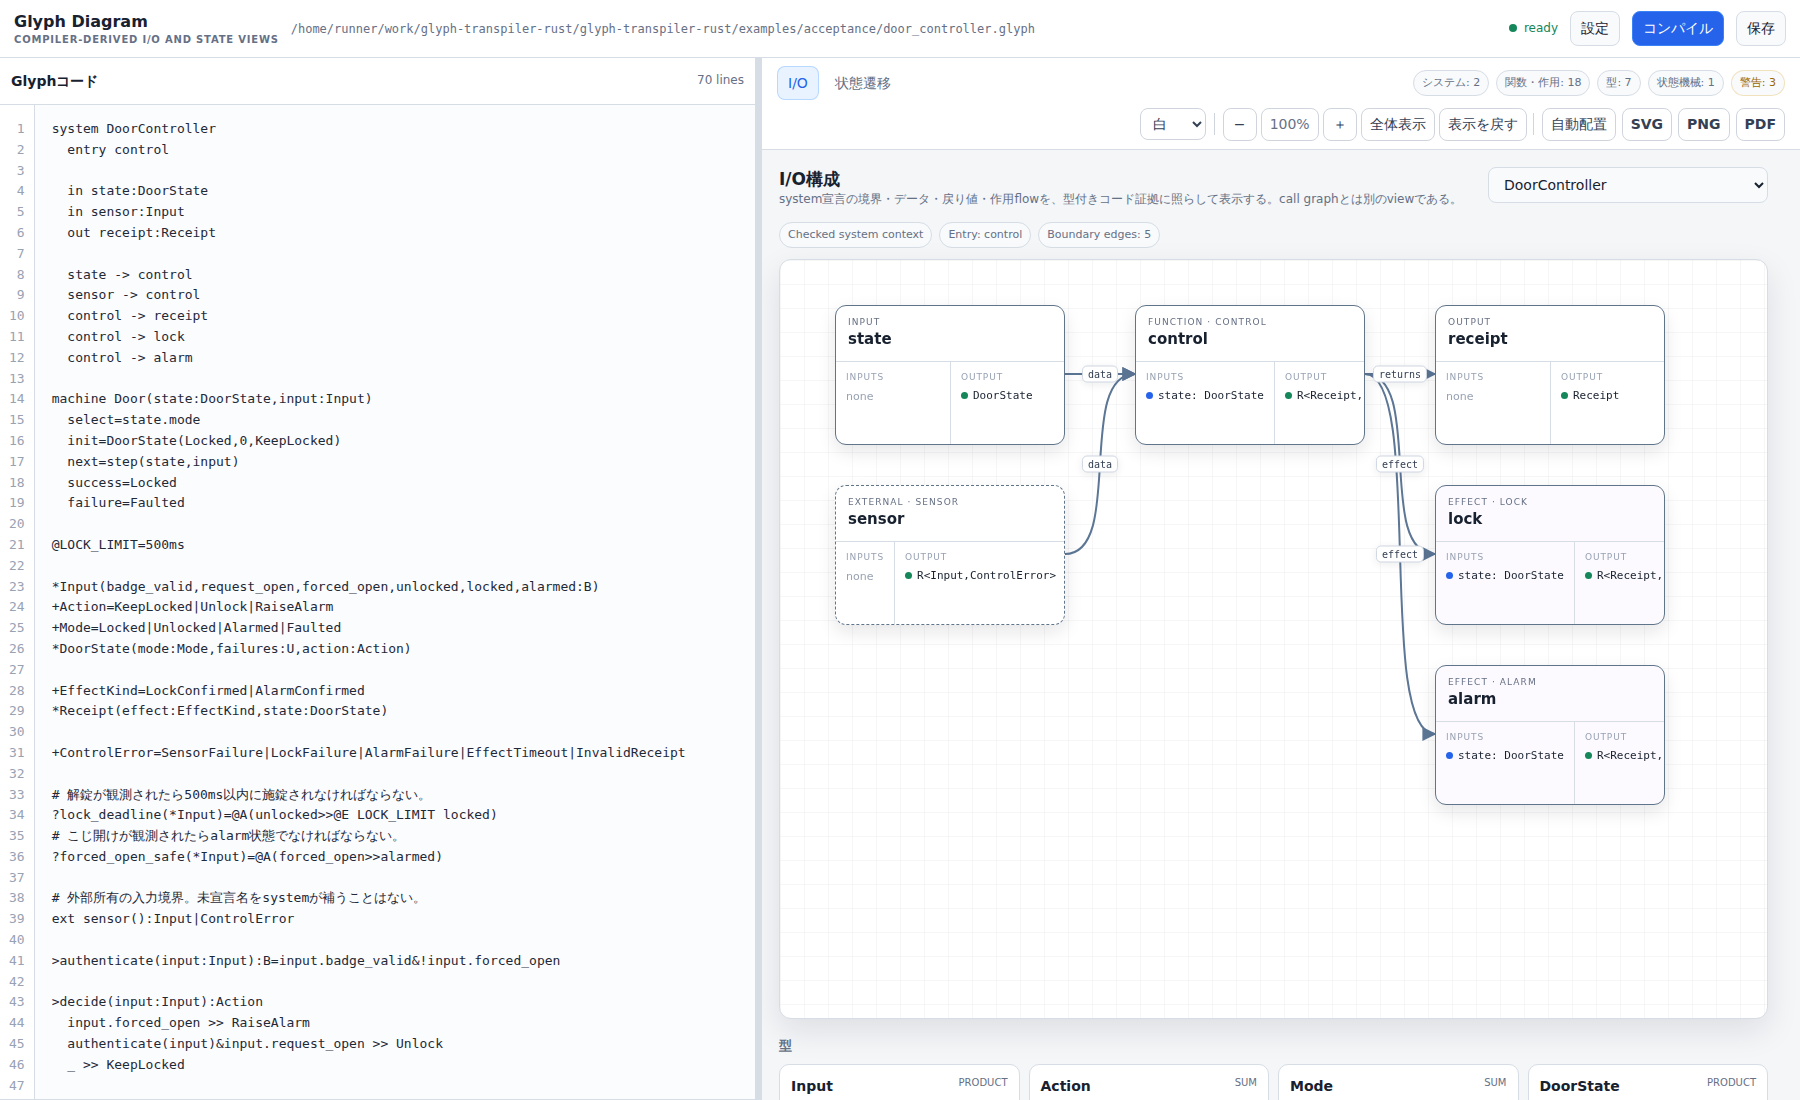
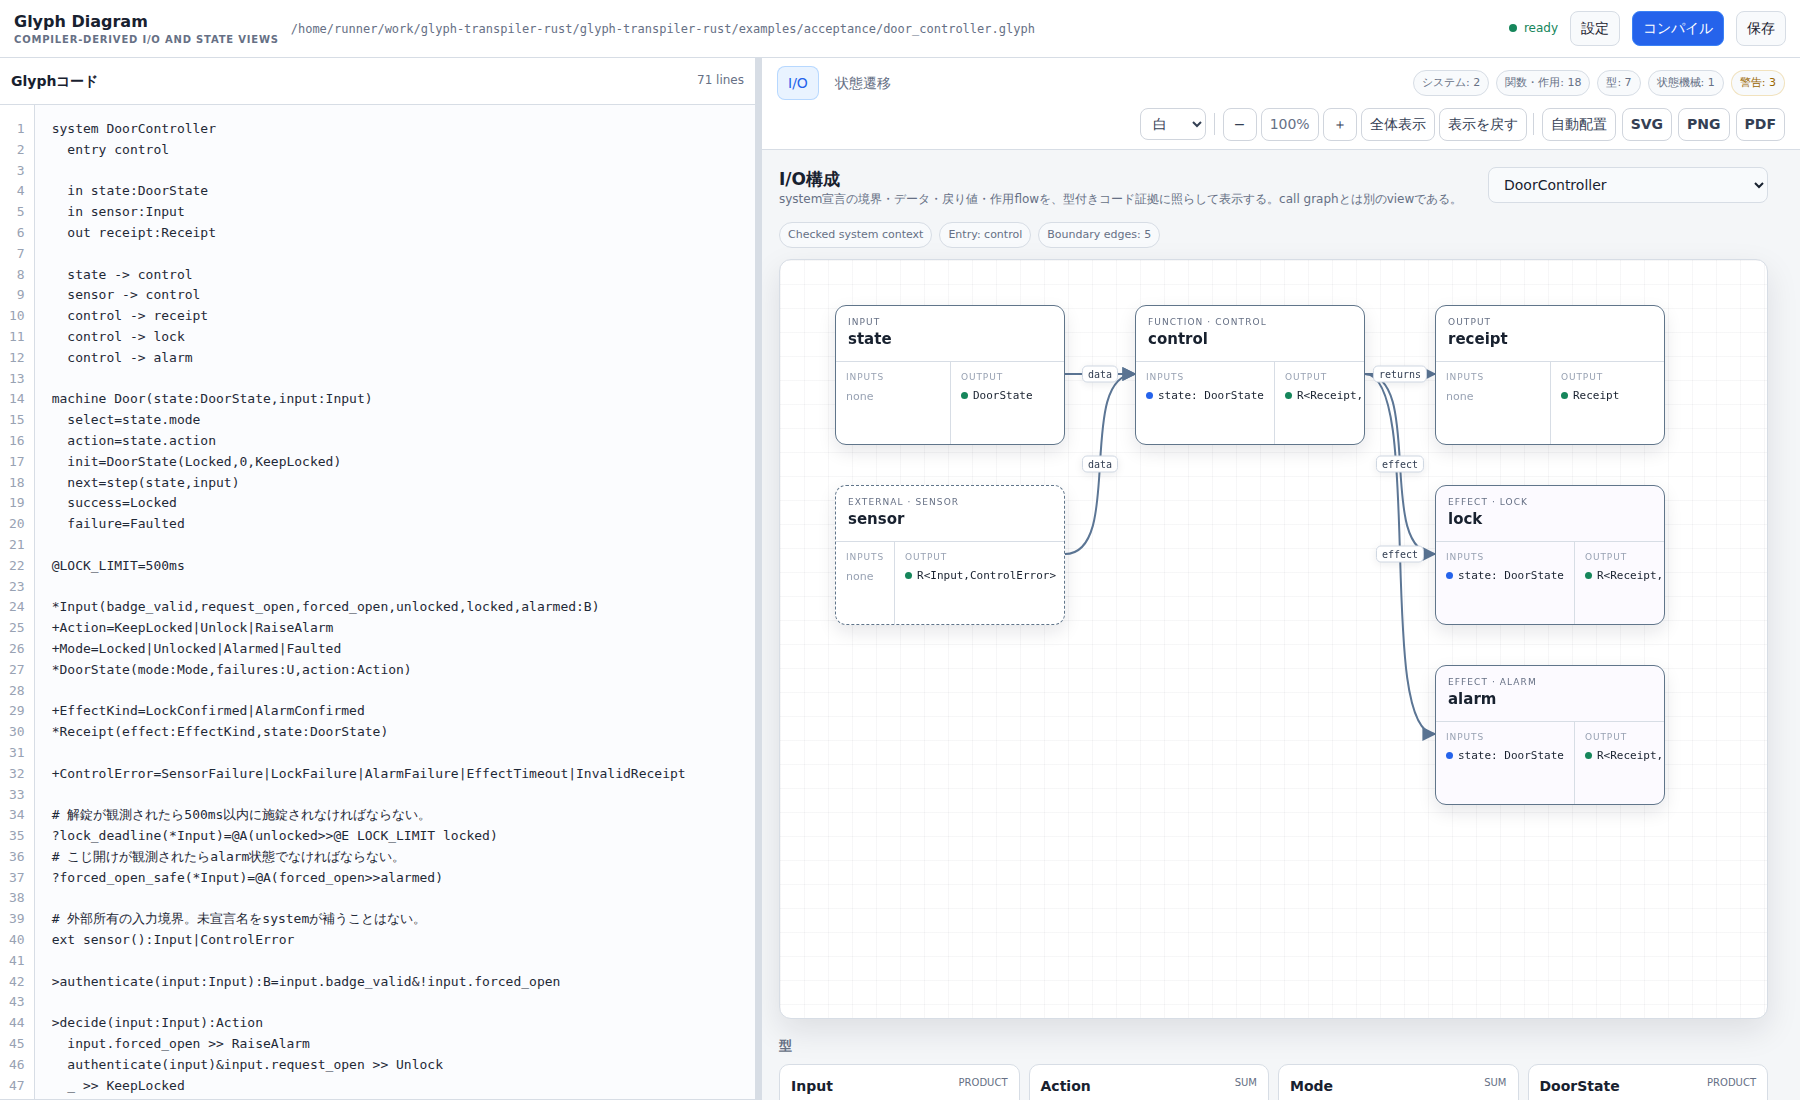
Update README screenshots for Action semantics v4

Changed region(s): [[0.0311, 0.3709, 0.3733, 1.0]]

diff --git a/README.md b/README.md
@@ -21,7 +21,7 @@ Glyphはアプリケーションの細部をすべて実装する言語ではあ
 
 ### 状態遷移図
 
-Motor Safetyの状態、初期遷移、到達可能・到達不能状態、入力・ガード・遷移結果を一画面へ表示しています。
+Motor Safetyの状態、初期遷移、到達可能・到達不能状態、入力・ガード・Actionを一画面へ表示しています。状態名とActionは別の意味として描画されます。
 
 ![Glyph Studioの状態遷移図](docs/images/glyph-studio-state-transition.png)
 
